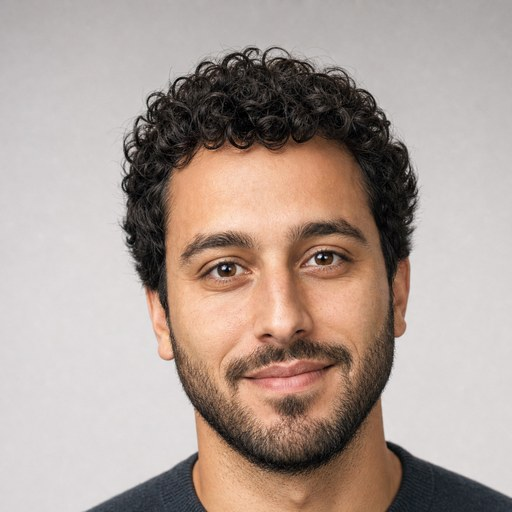
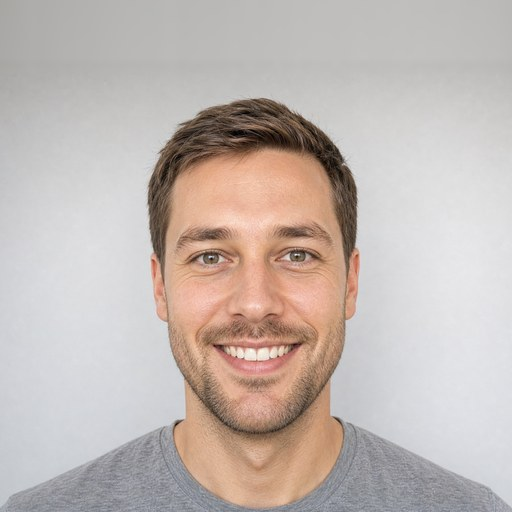
One face, one display size, and a friendlier one
The hero drops its portrait: a face in the header and a face in the hero read
as a mistake rather than as identity, so the header keeps the only one and the
first viewport becomes type-led. With the name now carrying the hero alone it
takes the page-title size — .display-name is gone, and .display-page is simply
the biggest thing on any page.

New portrait, warmer and more developer than the last, cropped dead-centre on
both axes with the head at 62% of the frame. The headroom for that crop is
made by stretching a blurred band of the backdrop, since a sharp slice
stretched forty times leaves visible streaking in the finished circle.

Persona renamed to Rowan Emerson throughout.

diff --git a/files/resources/css/site.css b/files/resources/css/site.css
@@ -53,17 +53,14 @@
 }
 
 /*
-    The display scale. Three steps, fluid between the phone and the desktop
-    so no heading ever needs a breakpoint. Nothing here is enormous on
-    purpose — the column is 40rem wide, and a 5rem headline inside it reads
-    as a mistake rather than as confidence.
-*/
-.display-name {
-    font-size: clamp(1.75rem, 5vw, 2.25rem);
-    line-height: 1.1;
-    letter-spacing: -0.03em;
-}
+    The display scale. Two steps and a row size, fluid between the phone and
+    the desktop so no heading ever needs a breakpoint. Nothing here is
+    enormous on purpose — the column is 40rem wide, and a 5rem headline
+    inside it reads as a mistake rather than as confidence.
 
+    .display-page is the biggest thing on any page: the name on the home
+    page, the title everywhere else. There is only ever one per page.
+*/
 .display-page {
     font-size: clamp(2rem, 6vw, 2.75rem);
     line-height: 1.08;

diff --git a/files/resources/views/pages/about.blade.php b/files/resources/views/pages/about.blade.php
@@ -1,8 +1,8 @@
-<x-layouts.main title="About" description="Rowan Ellis — independent developer in Lisbon. Fourteen years of software, six of them alone." current="/about">
+<x-layouts.main title="About" description="Rowan Emerson — independent developer in Lisbon. Fourteen years of software, six of them alone." current="/about">
     <x-sections.page-header
         heading="A developer who ships small things"
         intro="Fourteen years of software, the last six of them on my own, from a desk two streets from the river in Lisbon." />
-    <x-sections.prose showLabel="0" body="<p>I started out in agencies, building other people’s ideas quickly and rarely finding out whether they worked. Then four years inside a payments company, where I learned what happens to software after launch — the migrations, the on-call weeks, the features nobody had the authority to delete.</p><p>Since 2020 I have worked alone. There is no team, no roadmap and no growth target. There is a short list of products with real customers, and a rule that I only start something I could finish in a season.</p><h2>How I work</h2><p>I write the smallest honest version first and put it in front of one person. If they keep using it after a fortnight, it earns more of my time. If they do not, I have lost eleven days rather than a year, and I have learned the thing I was actually trying to find out.</p><p>Almost everything I have shipped got smaller between the sketch and the release. That is not modesty — it is the only technique I have that reliably works.</p><h2>Working together</h2><p>I take on one or two consulting projects a year, usually with small teams who have a product that works and a codebase that has stopped being fun. Four to eight weeks, one clear problem, no retainer. If that sounds like your situation, <a href='mailto:rowan@rowanellis.com'>write to me</a> and tell me what is slow.</p>" />
+    <x-sections.prose showLabel="0" body="<p>I started out in agencies, building other people’s ideas quickly and rarely finding out whether they worked. Then four years inside a payments company, where I learned what happens to software after launch — the migrations, the on-call weeks, the features nobody had the authority to delete.</p><p>Since 2020 I have worked alone. There is no team, no roadmap and no growth target. There is a short list of products with real customers, and a rule that I only start something I could finish in a season.</p><h2>How I work</h2><p>I write the smallest honest version first and put it in front of one person. If they keep using it after a fortnight, it earns more of my time. If they do not, I have lost eleven days rather than a year, and I have learned the thing I was actually trying to find out.</p><p>Almost everything I have shipped got smaller between the sketch and the release. That is not modesty — it is the only technique I have that reliably works.</p><h2>Working together</h2><p>I take on one or two consulting projects a year, usually with small teams who have a product that works and a codebase that has stopped being fun. Four to eight weeks, one clear problem, no retainer. If that sounds like your situation, <a href='mailto:rowan@rowanemerson.com'>write to me</a> and tell me what is slow.</p>" />
     <x-sections.now-list :items="$now" />
     <x-sections.elsewhere :items="$site->social_links" />
 </x-layouts.main>

diff --git a/files/resources/views/components/sections/intro.blade.php b/files/resources/views/components/sections/intro.blade.php
@@ -1,24 +1,18 @@
 @props([
-    'avatar' => '/images/avatar.jpg',
-    'avatarAlt' => 'Rowan Ellis',
-    'name' => 'Rowan Ellis',
+    'name' => 'Rowan Emerson',
     'bio' => 'Independent developer in Lisbon, building small software products on my own. Writing about craft, shipping, and the parts of the job nobody demos.',
     'showStatus' => '1',
     'status' => 'Taking on one project this autumn',
-    'statusHref' => 'mailto:rowan@rowanellis.com',
+    'statusHref' => 'mailto:rowan@rowanemerson.com',
 ])
-{{-- The first viewport: a face, a name, two lines, and the availability line
+{{-- The first viewport: a name, two lines, and the availability line
      underneath. No headline and no call to action — on a personal site the
-     person is the headline. --}}
-<section class="mx-auto w-full max-w-[40rem] px-6 pt-2 sm:pt-6">
+     person is the headline. The portrait lives in the header and nowhere
+     else: one face on the page reads as an identity, two reads as a mistake. --}}
+<section class="mx-auto w-full max-w-[40rem] px-6 pt-4 sm:pt-8">
 
-    <div class="flex items-start gap-5">
-        <img src="{{ $avatar }}" alt="{{ $avatarAlt }}" width="72" height="72" class="size-14 shrink-0 rounded-full object-cover sm:size-[4.5rem]">
-        <div class="pt-0.5">
-            <h1 class="display-name font-display font-semibold text-ink">{{ $name }}</h1>
-            <p class="mt-3 max-w-[46ch] text-base text-pretty text-muted sm:mt-2.5">{{ $bio }}</p>
-        </div>
-    </div>
+    <h1 class="display-page max-w-[16ch] font-display font-semibold text-balance text-ink">{{ $name }}</h1>
+    <p class="mt-4 max-w-[46ch] text-base text-pretty text-muted">{{ $bio }}</p>
 
     @if ($showStatus == '1')
     <a href="{{ $statusHref }}" class="row-link mt-7 inline-flex items-center gap-2.5 py-1.5 text-base text-muted hover:text-ink focus-visible:outline-2 focus-visible:outline-offset-2 focus-visible:outline-ink sm:mt-8 sm:text-sm">

diff --git a/files/resources/views/pages/index.blade.php b/files/resources/views/pages/index.blade.php
@@ -1,4 +1,4 @@
-<x-layouts.main title="Home" description="Rowan Ellis is an independent developer in Lisbon building small software products, and writing about craft, shipping and working alone." current="/">
+<x-layouts.main title="Home" description="Rowan Emerson is an independent developer in Lisbon building small software products, and writing about craft, shipping and working alone." current="/">
     <x-sections.intro />
     <x-sections.prose label="About" body="<p>I have been writing software for fourteen years — eight of them inside other people’s companies, six of them on my own. These days I build small products end to end: the idea, the code, the pricing email, the support replies at nine on a Sunday.</p><p>Most of what I make is deliberately small. <strong>Cutlass</strong> deploys a folder. <strong>Halfmoon</strong> sends one alert. <strong>Ledgerline</strong> does bookkeeping for a company of one, because that is the company I have. None of them have a roadmap.</p><p>I write here about the parts of the job nobody demos: cutting a feature you were proud of, pricing something with one customer, and the long unglamorous stretch between working and finished.</p>" />
     <x-sections.project-rows :items="$projects" />

diff --git a/files/resources/views/components/nav.blade.php b/files/resources/views/components/nav.blade.php
@@ -2,7 +2,7 @@
     'links' => [],
     'current' => '/',
     'avatar' => '/images/avatar.jpg',
-    'avatarAlt' => 'Rowan Ellis',
+    'avatarAlt' => 'Rowan Emerson',
 ])
 {{-- The header is the wordmark and three links, and it scrolls away with the
      page — nothing here is sticky, and nothing here needs JavaScript. Links

diff --git a/files/resources/design.md b/files/resources/design.md
@@ -46,9 +46,11 @@ bright specifically so it can carry small text and be its own underline.
 - **Display** — Space Grotesk 500/600, for the name, page titles and every
   row title. Nothing else.
 - **Body** — Inter 400/500, with `cv02 cv03 cv04 cv11 ss01` on.
-- Three display steps, defined once in `site.css`: `.display-name`
-  (1.75→2.25rem), `.display-page` (2→2.75rem), `.display-row` (1.0625rem).
-  Use the class, not a stack of `text-*` breakpoints.
+- Two display steps and a row size, defined once in `site.css`:
+  `.display-page` (2→2.75rem) and `.display-row` (1.0625rem). Use the class,
+  not a stack of `text-*` breakpoints. `.display-page` is the biggest thing
+  on a page — the name on the home page, the title everywhere else — and
+  there is only ever one of it per page.
 - **The headings are deliberately not large.** The column is 40rem wide; a
   4rem headline inside it reads as a mistake rather than as confidence.
 - Section labels are small, muted, sentence case, and they *are* the heading —
@@ -100,8 +102,9 @@ should read as though it was written after the work, not before it.
 
 ## Anti-patterns
 
-- A hero headline. The person is the headline; the avatar and the name do
-  that job.
+- A hero headline. The person is the headline; the name does that job.
+- A second portrait. The header carries the only one on the site — a face in
+  the header and a face in the hero reads as a mistake, not as identity.
 - A second accent colour, or the green used decoratively.
 - Cards, shadows, or gradients. There are none, anywhere.
 - Centre alignment. Everything on this site is left aligned.
